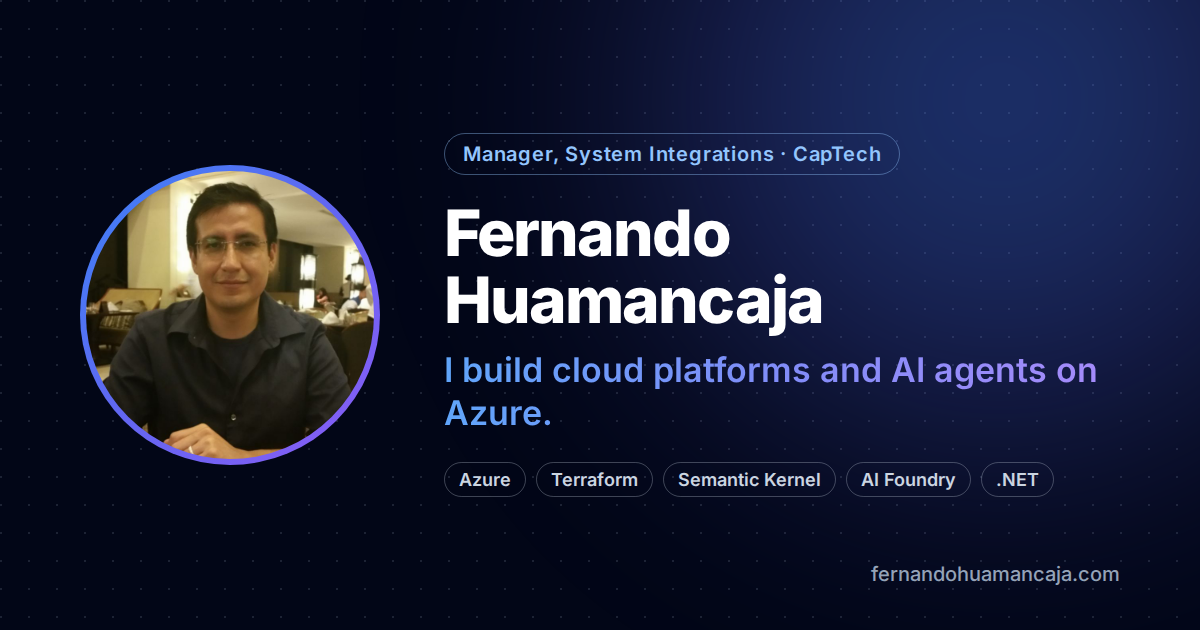
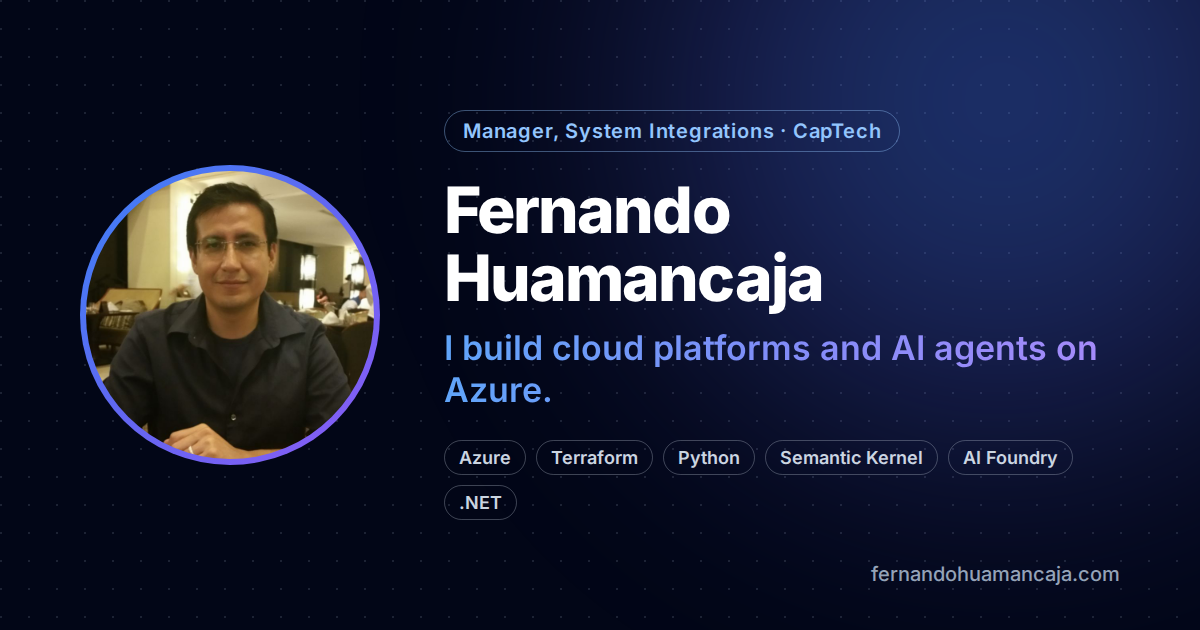
Describe the AI agent work as Python, add a Python skill card
Semantic Kernel orchestration, evaluators and data pipelines are built in
Python, not .NET. Update the hero, about, experience, case study, skills
and Open Graph image accordingly and add a Python logo.

Claude-Session: https://claude.ai/code/session_01HoinLTdKopRb3Vnmwzr62S

Changed region(s): [[0.37, 0.181, 0.925, 0.8143]]

diff --git a/src/data/site.ts b/src/data/site.ts
@@ -8,8 +8,8 @@ export const site = {
   email: 'fahuamancaja@gmail.com',
   headline: 'I build cloud platforms and AI agents on Azure.',
   description:
-    'Fernando Huamancaja is a cloud and AI integration engineer at CapTech. He builds Azure infrastructure with Terraform, orchestrates AI agents with Semantic Kernel on Azure AI Foundry, and ships .NET APIs and event-driven integrations.',
-  tagline: 'Azure · Terraform · .NET · Semantic Kernel · AI Foundry',
+    'Fernando Huamancaja is a cloud and AI integration engineer at CapTech. He builds Azure infrastructure with Terraform, orchestrates AI agents in Python with Semantic Kernel on Azure AI Foundry, and ships the APIs and event-driven integrations around them.',
+  tagline: 'Azure · Terraform · Python · Semantic Kernel · AI Foundry · .NET',
   links: {
     linkedin: 'https://www.linkedin.com/in/fernando-huamancaja/',
     github: 'https://github.com/fahuamancaja',
@@ -25,8 +25,8 @@ export const site = {
   ],
   about: [
     'I am a software engineer turned cloud and AI integration lead. At CapTech I design and ship solutions on Microsoft Azure: infrastructure defined in Terraform and delivered through Azure Pipelines, event-driven integrations built on Service Bus and Azure Storage, and AI workloads running on Azure AI Foundry.',
-    'My current focus is agentic AI in .NET. I orchestrate multi-agent workflows with Semantic Kernel, expose them as API endpoints, and build scoring and evaluation agents so quality is measured, not assumed.',
+    'My current focus is agentic AI in Python. I orchestrate multi-agent workflows with Semantic Kernel, expose them as API endpoints, and build scoring and evaluation agents so quality is measured, not assumed.',
     'Before consulting I spent several years in financial services at LPL Financial and Inspira Financial building .NET and Angular platforms, and I started my career in networking and IT support at Lowe\'s.',
   ],
-  heroChips: ['Azure', 'Terraform', 'Semantic Kernel', 'AI Foundry', '.NET'],
+  heroChips: ['Azure', 'Terraform', 'Python', 'Semantic Kernel', 'AI Foundry', '.NET'],
 } as const;
